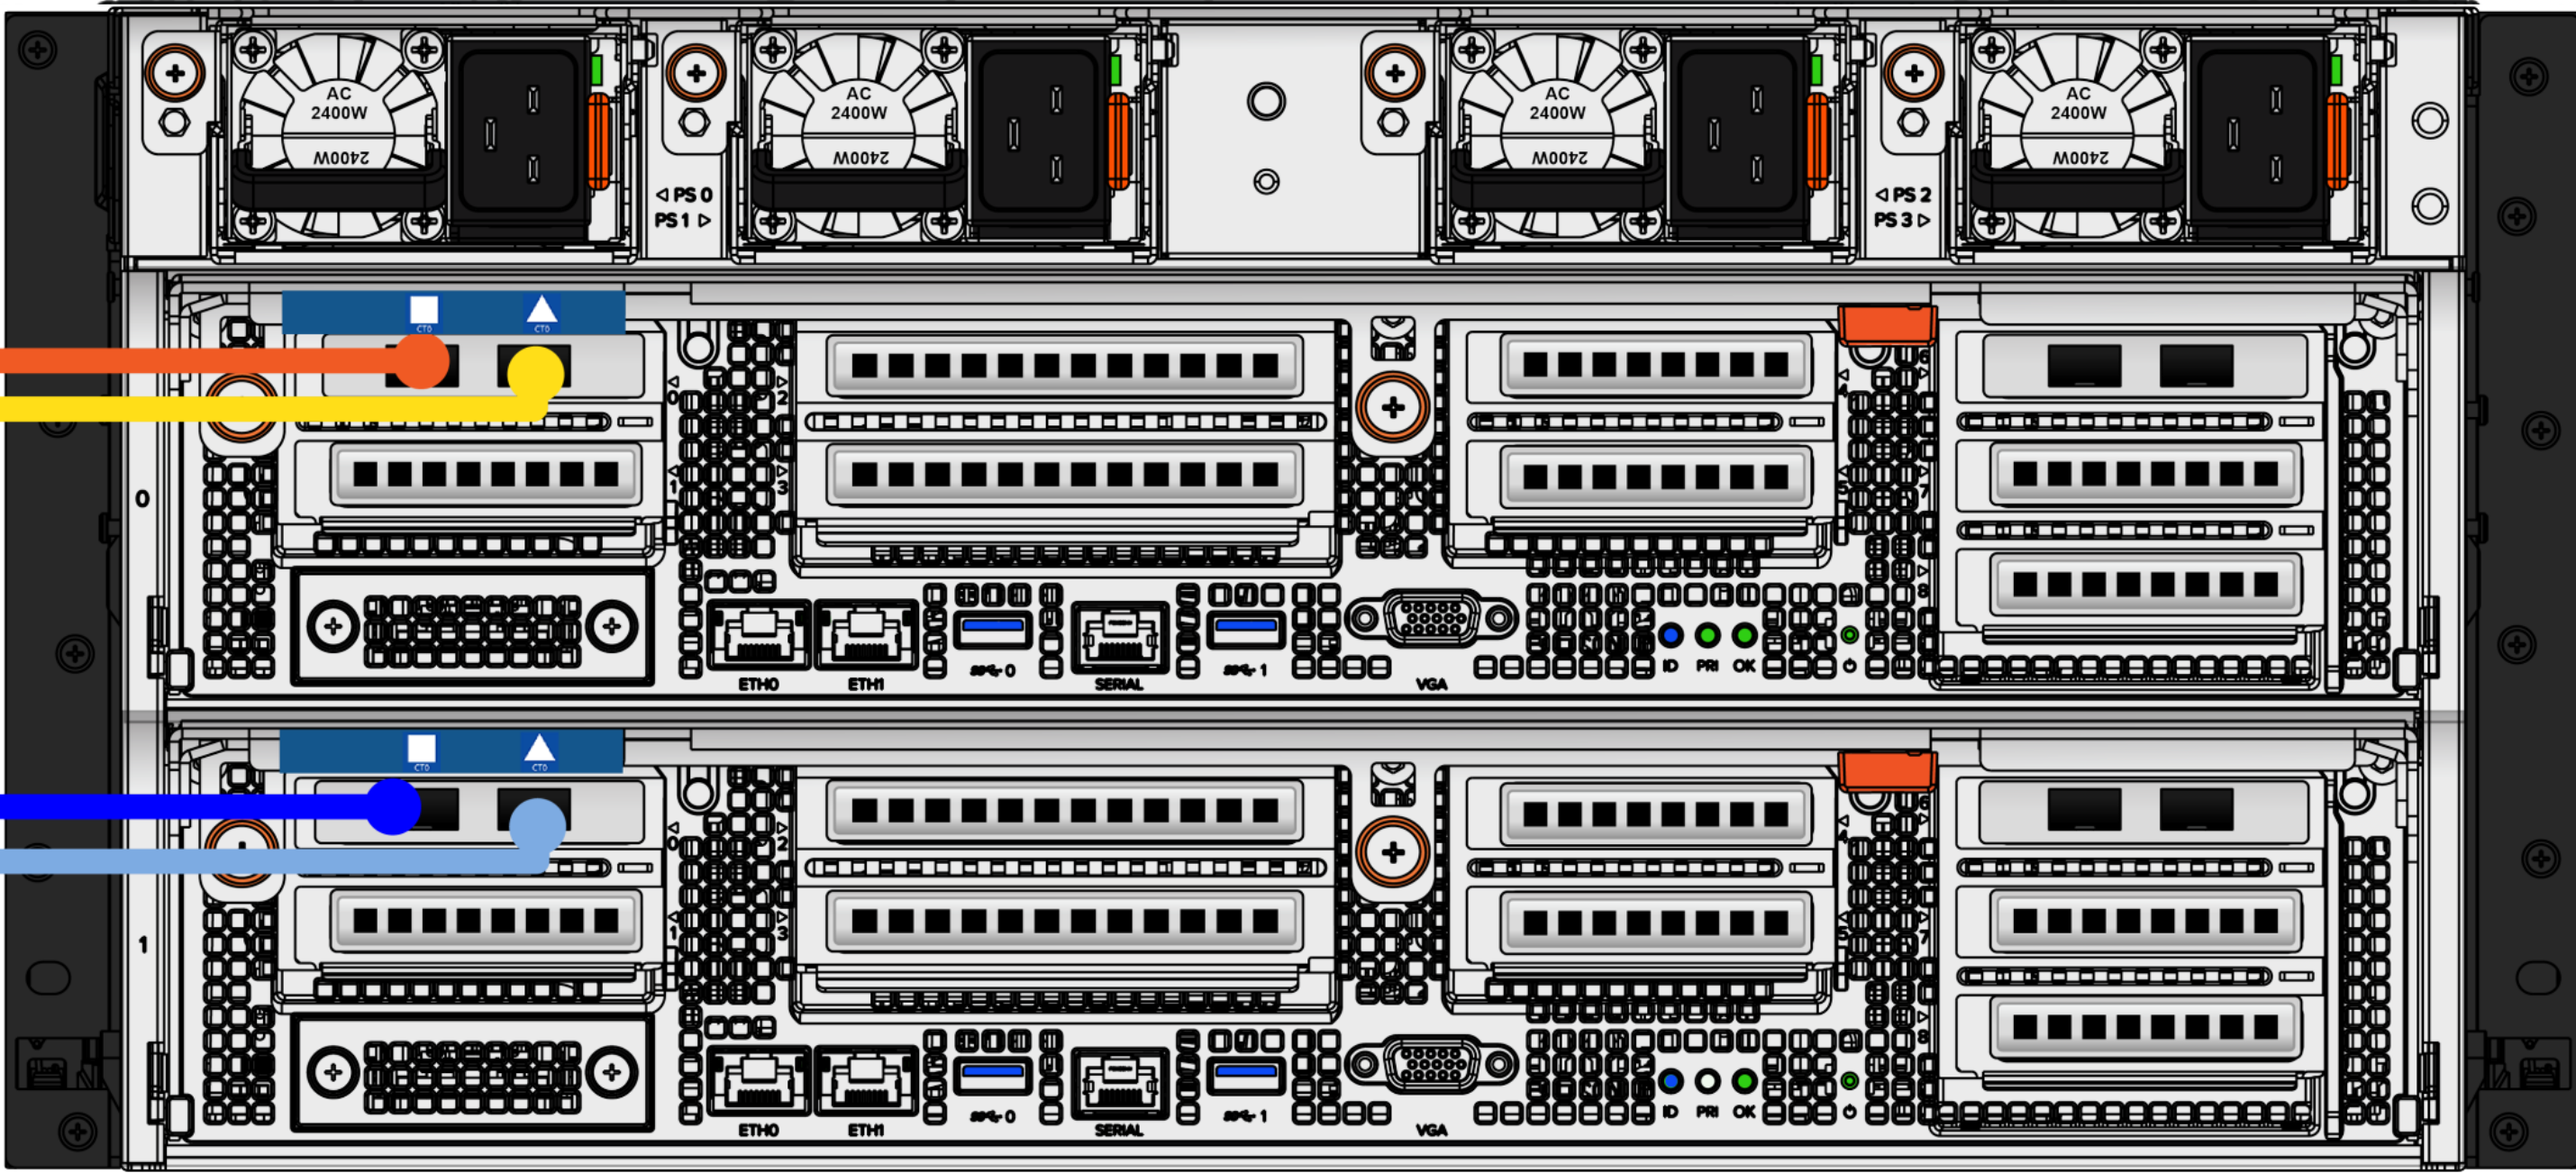
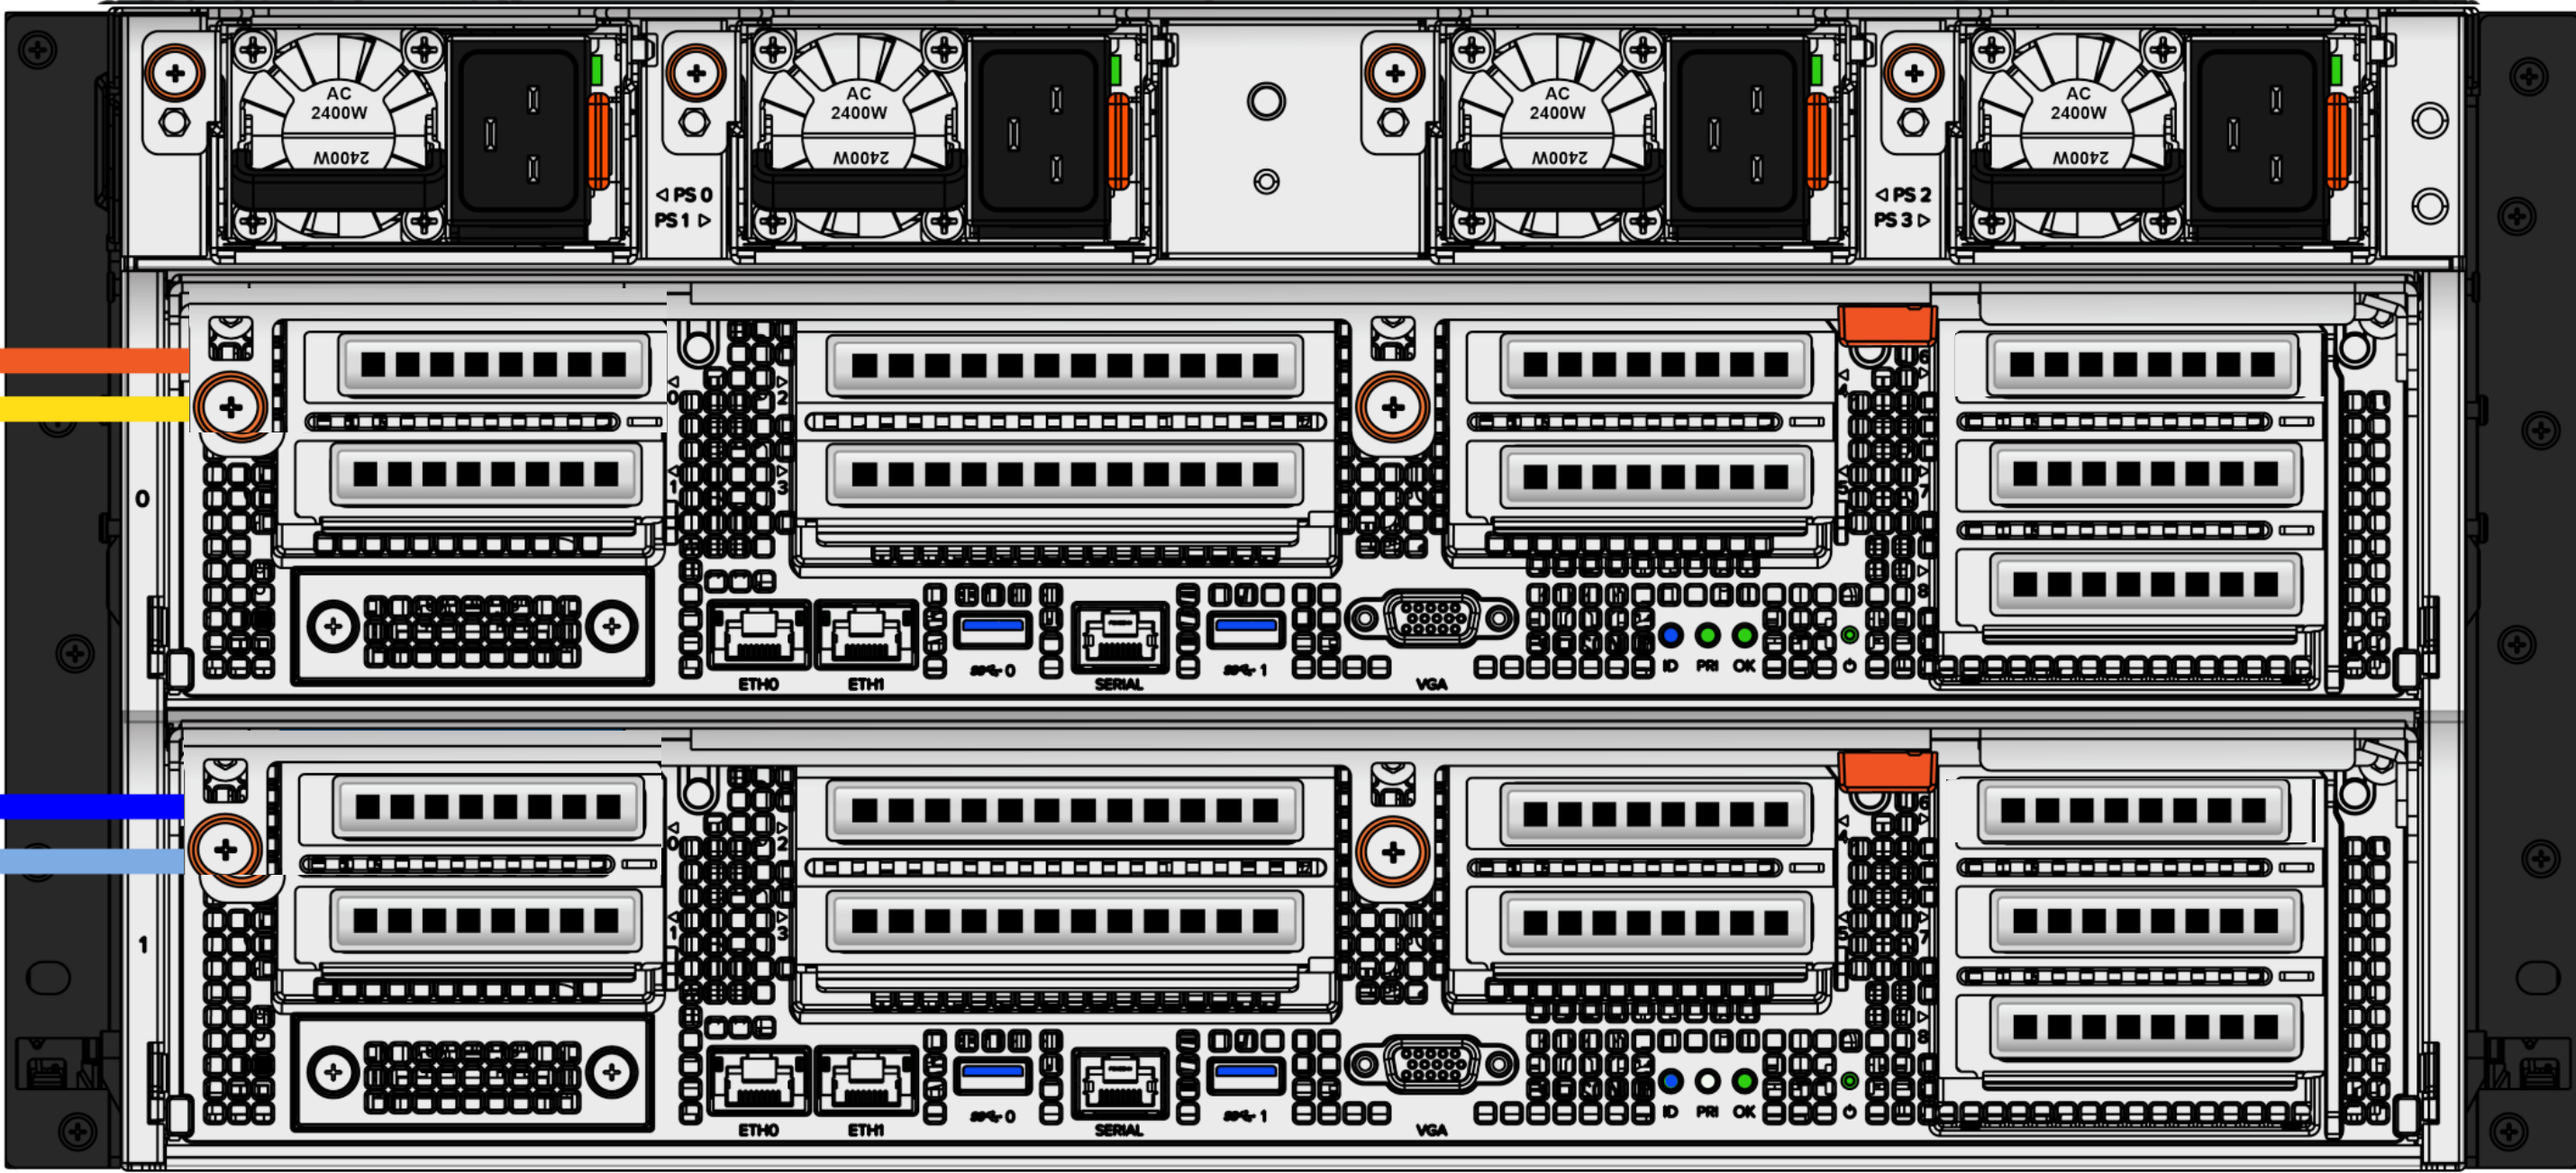
cleaned up the immages a little fixed fm alignment

diff --git a/update_config.py b/update_config.py
@@ -237,12 +237,12 @@ def update_static_fm_loc(config):
 
     # XL is different lets start over for XL
     ch0_fm_loc = [None] * 40
-    ch0_fm_loc[0] = (161, 75)
-    ch0_fm_loc[10] = (1471, 75)
-    ch0_fm_loc[20] = (161, 746)
-    ch0_fm_loc[30] = (1471, 746)
+    ch0_fm_loc[0] = (161, 175)
+    ch0_fm_loc[10] = (1460, 175)
+    ch0_fm_loc[20] = (161, 730)
+    ch0_fm_loc[30] = (1460, 730)
     
-    x_offset = 125
+    x_offset = 126
 
     for x in range(len(ch0_fm_loc)):
         if ch0_fm_loc[x] is None:  # skips anchor locations
@@ -369,8 +369,17 @@ def update_static_card_port_loc(config):
     ports_loc = [(210, 40), (410, 40)]
     add_ports_to_key(ports_loc, 'png/pure_fa_2eth40_fh.png', 'eth40', config)
 
+    ports_loc = [(70, 40), (245, 40) ]
+    add_ports_to_key(ports_loc, 'png/pure_fa_2eth40_hh.png', 'eth40', config)
+
     ports_loc = [(252, 40), (343, 40), (432, 40), (524, 40)]
     add_ports_to_key(ports_loc, 'png/pure_fa_4fc_fh.png', 'fc', config)
+
+    ports_loc = [(48, 40), (138, 40), (230, 40), (322, 40)]
+    add_ports_to_key(ports_loc, 'png/pure_fa_4fc_hh.png', 'fc', config)
+
+    # close enough, todo make better? 
+    add_ports_to_key(ports_loc, 'png/pure_fa_sas_hh.png', 'sas', config)
 
 
 
